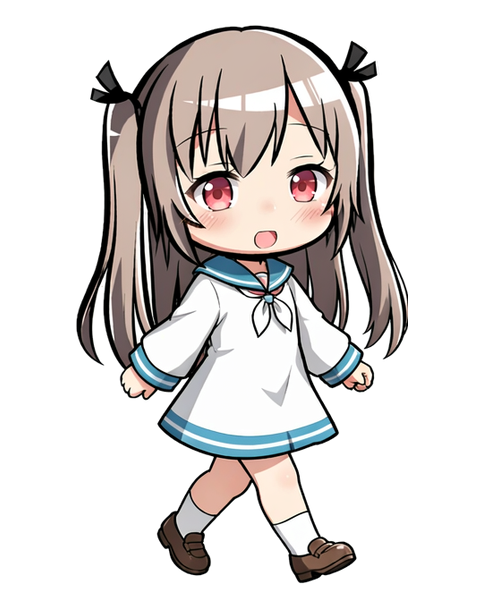
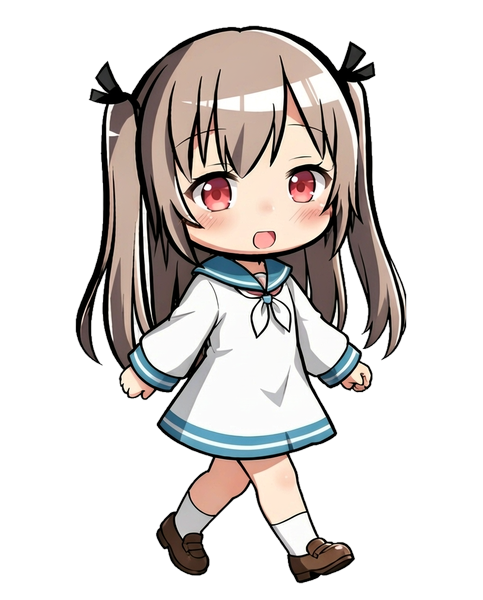
桌宠升级:AI 重绘走路循环(跨步-并拢-换边,双臂摆动)+ 视线跟随 + 悬停卡片说话 + 三档变大变小

diff --git a/index.html b/index.html
@@ -331,7 +331,7 @@
   /* 探针：用于让 JS 读到 env(safe-area-inset-bottom)（刘海屏手势条 / iOS home 指示条） */
   #sabProbe{position:fixed;left:-9999px;top:0;width:1px;
     height:env(safe-area-inset-bottom,0px);pointer-events:none}
-  .pet{position:fixed;right:16px;bottom:0;width:196px;z-index:55;
+  .pet{position:fixed;right:16px;bottom:0;width:calc(196px*var(--ps,1));z-index:55;
     user-select:none;-webkit-user-select:none;touch-action:none;will-change:left}
   .pet-inner{position:relative;cursor:grab;transform:scaleX(1);transition:transform .18s ease}
   .pet.dragging .pet-inner{cursor:grabbing}
@@ -374,6 +374,19 @@
     20%{opacity:1}
     100%{transform:translateY(-64px) scale(1.25);opacity:0}
   }
+  /* 眼睛跟随贴片 + 大小按钮 */
+  .pet .pet-eye{filter:none}
+  .pet-eye{position:absolute;pointer-events:none;opacity:0;
+    translate:var(--ex,0px) var(--ey,0px);transition:opacity .25s;will-change:translate}
+  .pet.idle .pet-eye{opacity:1}
+  .pet-ctl{position:absolute;top:-8px;right:-4px;display:flex;gap:4px;z-index:3;
+    opacity:0;transition:opacity .2s}
+  .pet:hover .pet-ctl{opacity:1}
+  @media(hover:none){.pet-ctl{opacity:.65}}
+  .pet-ctl button{width:20px;height:20px;border:none;border-radius:50%;padding:0;
+    background:rgba(255,255,255,.92);color:#3a3f4a;font-size:13px;line-height:18px;
+    cursor:pointer;box-shadow:0 2px 8px rgba(16,44,80,.28)}
+  [data-theme="dark"] .pet-ctl button{background:rgba(40,44,52,.92);color:#dfe3ea}
   /* 竖屏（平板/手机竖着拿）：横幅更高、照片被放得更大，取景再往左收一点、并多放大些把脸抬上去 */
   @media(orientation:portrait){
     body{background-size:cover,auto 175%;background-position:center center,70% 100%}
@@ -386,11 +399,11 @@
     body{background-position:center center,68% 100%}
   }
   @media(max-width:640px){
-    .pet{width:150px;right:8px}
+    .pet{width:calc(150px*var(--ps,1));right:8px}
     .pet .bubble{font-size:11px;padding:6px 10px}
   }
   @media(max-width:430px){
-    .pet{width:112px;right:6px}
+    .pet{width:calc(112px*var(--ps,1));right:6px}
     .pet .bubble{font-size:10px;padding:5px 9px}
   }
   @media(prefers-reduced-motion:reduce){
@@ -514,7 +527,8 @@
 
 <div class="pet" id="pet" title="我是ATRI～点我摸摸，按住能拖动，我还会自己散步哦">
   <div class="bubble" id="petBubble">你好呀～</div>
-  <div class="pet-inner"><img id="petImg" src="pet-idle.png" alt="ATRI 桌宠" draggable="false"></div>
+  <div class="pet-inner"><img id="petImg" src="pet-idle.png" alt="ATRI 桌宠" draggable="false"><img class="pet-eye" src="pet-eye-l.png" style="left:41.2%;top:28.67%;width:7.87%" alt="" draggable="false"><img class="pet-eye" src="pet-eye-r.png" style="left:59.21%;top:28%;width:7.04%" alt="" draggable="false"></div>
+  <div class="pet-ctl"><button type="button" id="petSmall" title="缩小一号" aria-label="缩小">−</button><button type="button" id="petBig" title="放大一号" aria-label="放大">＋</button></div>
 </div>
 
 <script>
@@ -1746,7 +1760,7 @@ toggle.addEventListener("click", () => {
 
   // 素材：全身 Q 版 ATRI —— 由图像生成 + 抠图 + 归一化得到（角色高/脚底基线已对齐）
   const IDLE = "pet-idle.png", HAPPY = "pet-happy.png";
-  const WALK = ["pet-walk-1.png","pet-walk-2.png","pet-walk-3.png","pet-walk-4.png"];
+  const WALK = ["pet-walk-1.png","pet-walk-2.png","pet-walk-3.png","pet-walk-2.png"];   // 跨步→并拢→换边跨步→并拢（标准走路循环,双臂随步伐摆动）
   const FRAME_MS = 130;   // 每帧停留时长，越小迈步越快
 
   // ATRI 性格：高性能仿生机器人少女，感情丰富 / 好奇心旺盛 / 乐观天真 / 有点笨拙 / 常走神回忆丢失的记忆
@@ -1772,7 +1786,7 @@ toggle.addEventListener("click", () => {
   const pick = a => a[Math.floor(Math.random()*a.length)];
 
   // 预加载所有帧，切换时不闪白
-  [IDLE, HAPPY].concat(WALK).forEach(s => { const i = new Image(); i.src = s; });
+  [IDLE, HAPPY, "pet-eye-l.png", "pet-eye-r.png"].concat(WALK).forEach(s => { const i = new Image(); i.src = s; });
 
   let state = "idle", dir = 0, targetX = null, dragging = false;
   let x = null, start = null, hideTimer = null, nextWander = 0;
@@ -1853,6 +1867,9 @@ toggle.addEventListener("click", () => {
         }
       }
     } else if(state === "idle"){
+      if(eyeLastMove && now - eyeLastMove > 2500){   // 鼠标停了一会儿,视线回正
+        eyeLastMove = 0; inner.style.setProperty("--ex","0px"); inner.style.setProperty("--ey","0px");
+      }
       if(now > nextWander){
         if(Math.random() < .7) pickWander(now);
         else { nextWander = now + 9000; say(pick(LINES.no)); }   // 走神发呆
@@ -1930,6 +1947,59 @@ toggle.addEventListener("click", () => {
   window.addEventListener("orientationchange", () => setTimeout(relayout, 150));
   if(window.visualViewport) window.visualViewport.addEventListener("resize", applyLift);
   window.addEventListener("beforeunload", () => { try{ localStorage.setItem("petX", String(x)); }catch(_){} });
+
+  /* ---- 视线跟随:瞳孔贴片随鼠标微移(仅站立时可见,走路时隐藏避免帧间错位) ---- */
+  let eyeLastMove = 0, eyeRaf = 0;
+  function lookAt(mx, my){
+    const r = pet.getBoundingClientRect();
+    const dx = Math.max(-1, Math.min(1, (mx - (r.left + r.width/2)) / (window.innerWidth * .5)));
+    const dy = Math.max(-1, Math.min(1, (my - (r.top + r.height * .3)) / (window.innerHeight * .5)));
+    const k = pet.offsetWidth / 196;               // 放大/缩小后移动量同步缩放
+    inner.style.setProperty("--ex", (dx * 3 * k).toFixed(2) + "px");
+    inner.style.setProperty("--ey", (dy * 1.8 * k).toFixed(2) + "px");
+  }
+  window.addEventListener("pointermove", e => {
+    if(eyeRaf) return;
+    eyeRaf = requestAnimationFrame(() => { eyeRaf = 0; lookAt(e.clientX, e.clientY); eyeLastMove = performance.now(); });
+  }, {passive:true});
+
+  /* ---- 悬停内容卡:看向那张卡,说它的专属台词 ---- */
+  let lastCard = null;
+  document.addEventListener("mouseover", e => {
+    if(!matchMedia("(hover:hover)").matches) return;
+    const c = e.target.closest ? e.target.closest("[data-pet-line]") : null;
+    if(!c || c === lastCard) return;
+    lastCard = c;
+    if(state === "idle"){
+      const r = c.getBoundingClientRect(), pr = pet.getBoundingClientRect();
+      setDir(r.left + r.width / 2 >= pr.left + pr.width / 2 ? 1 : -1);
+    }
+    say(c.getAttribute("data-pet-line"));
+  });
+  document.addEventListener("mouseout", e => {
+    const c = e.target.closest ? e.target.closest("[data-pet-line]") : null;
+    if(c && c === lastCard && !(e.relatedTarget && c.contains(e.relatedTarget))) lastCard = null;
+  });
+
+  /* ---- 变大变小:按钮 + 滚轮,三档,本地记住 ---- */
+  const SIZES = [0.78, 1, 1.32];
+  let sizeIdx = 1;
+  try{ const v = parseInt(localStorage.getItem("petScale"), 10); if(v >= 0 && v < SIZES.length) sizeIdx = v; }catch(_){}
+  function applySize(){
+    pet.style.setProperty("--ps", SIZES[sizeIdx]);
+    try{ localStorage.setItem("petScale", String(sizeIdx)); }catch(_){}
+    if(!dragging && x != null){ x = clampX(x); if(bottomMode) place(); }
+  }
+  function stepSize(d){
+    const n = Math.min(SIZES.length - 1, Math.max(0, sizeIdx + d));
+    if(n !== sizeIdx){ sizeIdx = n; applySize(); }
+  }
+  const btnS = document.getElementById("petSmall"), btnB = document.getElementById("petBig");
+  [btnS, btnB].forEach(b => b.addEventListener("pointerdown", e => e.stopPropagation()));
+  btnS.addEventListener("click", e => { e.stopPropagation(); stepSize(-1); });
+  btnB.addEventListener("click", e => { e.stopPropagation(); stepSize(1); });
+  pet.addEventListener("wheel", e => { e.preventDefault(); stepSize(e.deltaY < 0 ? 1 : -1); }, {passive:false});
+  applySize();
 
   // 初始位置：优先用上次保存的横向位置
   let savedX = null;
